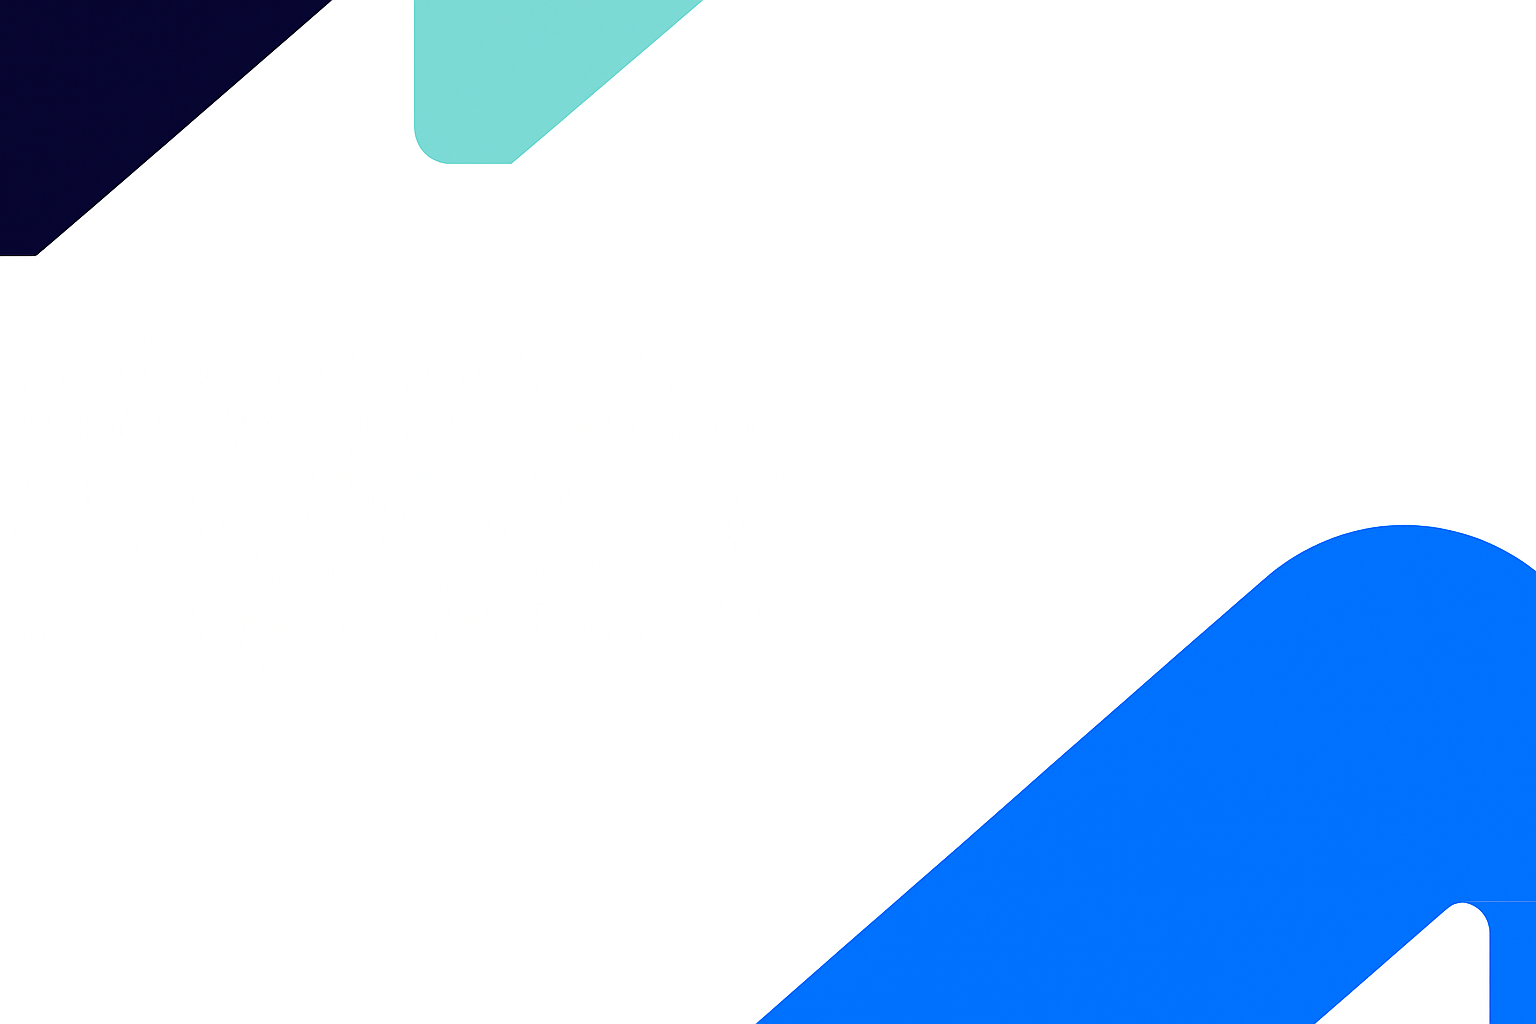
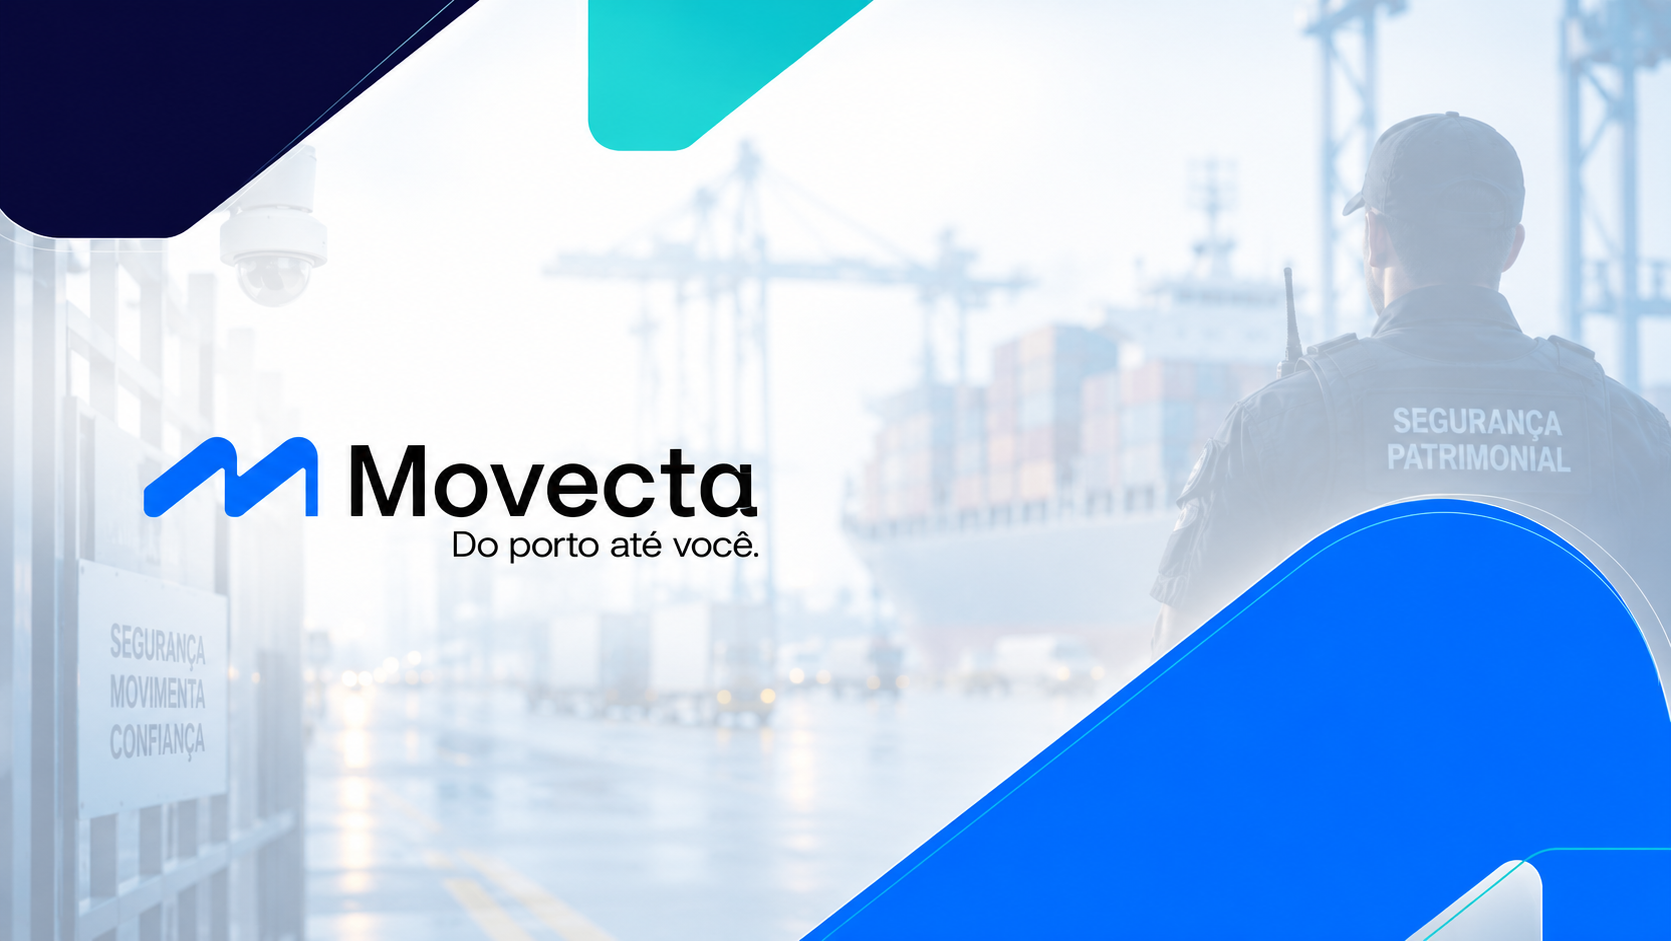
Atualiza fundo da tela de login

diff --git a/frontend/src/pages/Login.tsx b/frontend/src/pages/Login.tsx
@@ -97,31 +97,25 @@ export default function Login() {
       <div className="absolute inset-0 bg-gradient-to-br from-white/10 via-white/58 to-white/12" />
       <div className="absolute inset-x-0 bottom-0 h-40 bg-gradient-to-t from-white/80 to-transparent" />
 
-      <section className="relative z-10 flex min-h-screen items-center justify-center px-5 py-8">
+      <section className="relative z-10 flex min-h-screen items-center justify-center px-5 py-8 lg:justify-end lg:pr-[8vw]">
         <form
           onSubmit={handleLogin}
-          className="w-full max-w-[470px] rounded-[32px] border border-slate-200/90 bg-white/88 p-7 shadow-[0_30px_95px_rgba(15,23,42,0.18)] backdrop-blur-xl sm:p-9"
+          className="w-full max-w-[410px] rounded-[28px] border border-slate-200/90 bg-white/88 p-6 shadow-[0_26px_80px_rgba(15,23,42,0.18)] backdrop-blur-xl sm:p-7"
         >
           <div className="text-center">
-            <div className="mx-auto mb-5 flex h-14 w-14 items-center justify-center rounded-2xl bg-blue-600 text-white shadow-lg shadow-blue-600/25">
-              <ShieldCheck size={26} />
+            <div className="mx-auto mb-5 flex h-12 w-12 items-center justify-center rounded-2xl bg-blue-600 text-white shadow-lg shadow-blue-600/25">
+              <ShieldCheck size={23} />
             </div>
 
-            <img
-              src="/images/movecta-logo.png"
-              alt="Movecta"
-              className="mx-auto h-auto w-48 object-contain"
-            />
-
-            <p className="mt-7 text-xs font-black uppercase tracking-[0.22em] text-blue-600">
+            <p className="text-xs font-black uppercase tracking-[0.22em] text-blue-600">
               Acesso seguro
             </p>
-            <h1 className="mt-3 text-4xl font-black text-slate-950">
+            <h1 className="mt-3 text-3xl font-black text-slate-950">
               MoveSecurity
             </h1>
           </div>
 
-          <div className="mt-9 space-y-5">
+          <div className="mt-7 space-y-4">
             {ssoConfig?.ativo && (
               <button
                 type="button"
@@ -154,8 +148,8 @@ export default function Login() {
                   <span className="mb-2 block text-sm font-black text-slate-700">
                     Email
                   </span>
-                  <div className="login-input-shell flex items-center gap-3 rounded-2xl border px-4 py-3 transition">
-                    <span className="login-input-icon flex h-9 w-9 shrink-0 items-center justify-center rounded-xl">
+                  <div className="login-input-shell flex items-center gap-3 rounded-2xl border px-3.5 py-2.5 transition">
+                    <span className="login-input-icon flex h-8 w-8 shrink-0 items-center justify-center rounded-xl">
                       <Mail size={17} />
                     </span>
                     <input
@@ -168,7 +162,7 @@ export default function Login() {
                         boxShadow: "none",
                         WebkitTextFillColor: "#020617",
                       }}
-                      className="login-input h-9 w-full appearance-none bg-transparent text-sm font-bold outline-none"
+                      className="login-input h-8 w-full appearance-none bg-transparent text-sm font-bold outline-none"
                     />
                   </div>
                 </label>
@@ -177,8 +171,8 @@ export default function Login() {
                   <span className="mb-2 block text-sm font-black text-slate-700">
                     Senha
                   </span>
-                  <div className="login-input-shell flex items-center gap-3 rounded-2xl border px-4 py-3 transition">
-                    <span className="login-input-icon flex h-9 w-9 shrink-0 items-center justify-center rounded-xl">
+                  <div className="login-input-shell flex items-center gap-3 rounded-2xl border px-3.5 py-2.5 transition">
+                    <span className="login-input-icon flex h-8 w-8 shrink-0 items-center justify-center rounded-xl">
                       <LockKeyhole size={17} />
                     </span>
                     <input
@@ -191,7 +185,7 @@ export default function Login() {
                         boxShadow: "none",
                         WebkitTextFillColor: "#020617",
                       }}
-                      className="login-input h-9 w-full appearance-none bg-transparent text-sm font-bold outline-none"
+                      className="login-input h-8 w-full appearance-none bg-transparent text-sm font-bold outline-none"
                     />
                   </div>
                 </label>
@@ -203,7 +197,7 @@ export default function Login() {
             <button
               type="submit"
               disabled={loading}
-              className="mt-7 w-full rounded-2xl bg-blue-600 px-4 py-3.5 font-black text-white shadow-lg shadow-blue-600/25 transition hover:-translate-y-0.5 hover:bg-blue-500 disabled:cursor-not-allowed disabled:bg-slate-400"
+              className="mt-6 w-full rounded-2xl bg-blue-600 px-4 py-3 font-black text-white shadow-lg shadow-blue-600/25 transition hover:-translate-y-0.5 hover:bg-blue-500 disabled:cursor-not-allowed disabled:bg-slate-400"
             >
               {loading ? "Entrando..." : "Entrar"}
             </button>
